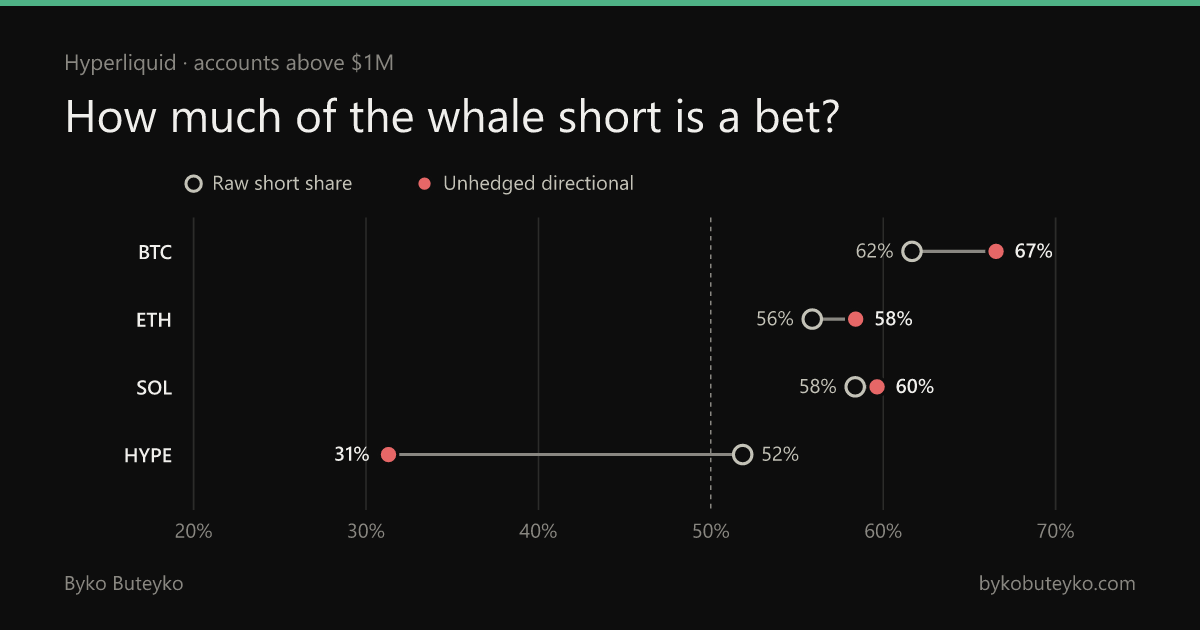
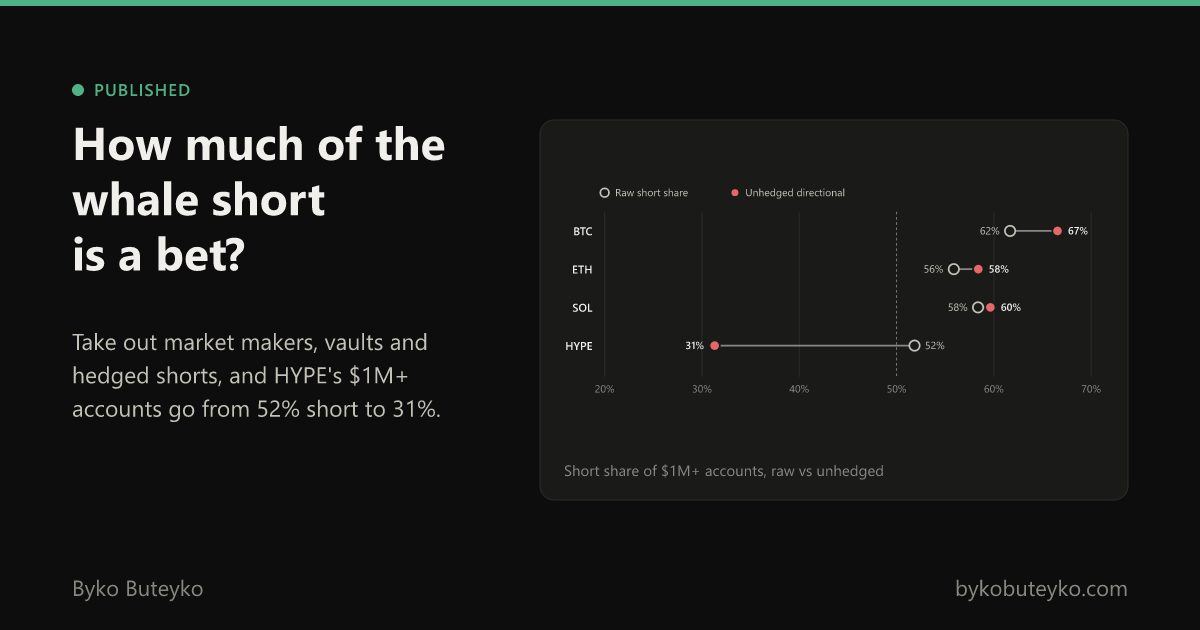
Whale preview card uses the same layout as the other notes

diff --git a/scripts/og.py b/scripts/og.py
@@ -1,5 +1,5 @@
 """Renders the link-preview cards (1200x630) for the home page and the funding, cascade and ETF notes.
-The whale note's card comes from render.py.
+render.py makes the whale note's post images.
 
   pip install resvg-py
   python scripts/og.py
@@ -27,6 +27,12 @@ text {{ font-family: {FONT}; }}
 .chart .bar.flow {{ fill: {LONG}; }}
 .chart .bar.short {{ fill: {SHORT}; }}
 .chart .shade {{ fill: {BG}; opacity: .55; }}
+.chart .legend text {{ fill: {INK2}; }}
+.chart .val.unh {{ fill: {INK}; font-weight: 600; }}
+.chart .val.raw {{ fill: {INK2}; }}
+.chart .link {{ stroke: {MUTED}; stroke-width: 2; }}
+.chart circle.raw {{ fill: {SURFACE}; stroke: {INK2}; stroke-width: 2; }}
+.chart circle.unh {{ fill: {SHORT}; stroke: {SURFACE}; stroke-width: 2; }}
 """
 
 # (status color, status, title) for each research card, as on the home page
@@ -78,6 +84,17 @@ def home():
     return frame(body).replace(text(72, H - 34, "Byko Buteyko", 22, MUTED), "")
 
 
+def whales():
+    vb, inner = chart(ROOT / "research" / "hyperliquid-whales" / "index.html", "shift")
+    body = [*status(72, 96, OK, "Published"),
+            *lines(72, 160, ["How much of the", "whale short", "is a bet?"], 46, INK, 700, gap=1.2),
+            *lines(72, 350, ["Take out market makers, vaults and", "hedged shorts, and HYPE's $1M+", "accounts go from 52% short to 31%."], 23, INK2, gap=1.45),
+            f'<rect x="540" y="120" width="588" height="380" rx="14" fill="{SURFACE}" stroke="{LINE}"/>',
+            f'<svg class="chart" x="556" y="150" width="556" height="280" viewBox="{vb}">{inner}</svg>',
+            text(564, 476, "Short share of $1M+ accounts, raw vs unhedged", 15, MUTED)]
+    return frame(body)
+
+
 def funding():
     vb, inner = chart(ROOT / "research" / "hyperliquid-funding" / "index.html", "gap")
     body = [*status(72, 96, OK, "Published"),
@@ -112,7 +129,7 @@ def etf():
     return frame(body)
 
 
-CARDS = {"og.png": home, "research/hyperliquid-funding/og.png": funding,
+CARDS = {"og.png": home, "research/hyperliquid-whales/og.png": whales, "research/hyperliquid-funding/og.png": funding,
          "research/hyperliquid-liquidations/og.png": cascades, "research/bitcoin-etf-basis/og.png": etf}
 
 if __name__ == "__main__":

diff --git a/scripts/render.py b/scripts/render.py
@@ -1,5 +1,5 @@
-"""Renders PNGs from the charts on the whales page: the link-preview card (og.png) and
-1200x675 images for posts. Builds one SVG per image and rasterises it with resvg.
+"""Renders PNGs from the charts on the whales page: 1200x675 images for posts
+(the link-preview card comes from og.py). Builds one SVG per image and rasterises it with resvg.
 
   pip install resvg-py
   python scripts/render.py [post_dir]
@@ -61,8 +61,6 @@ def card(w, h, lines, name, top, bottom=40):
 
 
 IMAGES = {
-    "og.png": (1200, 630, 1, [("Hyperliquid · accounts above $1M", 22, MUTED, 400),
-                               ("How much of the whale short is a bet?", 46, INK, 650)], "shift", 70),
     "post-shift.png": (1200, 675, 2, [("Short share of $1M+ accounts: raw vs unhedged", 38, INK, 650),
                                       ("Unhedged = without market makers, vaults, relative-value books", 22, INK2, 400),
                                       ("and shorts hedged with spot or staked coins on Hyperliquid", 22, INK2, 400)], "shift", 70),
@@ -74,7 +72,7 @@ def render(out_dir):
     out_dir.mkdir(parents=True, exist_ok=True)
     for name, (w, h, zoom, lines, ch, top) in IMAGES.items():
         png = resvg_py.svg_to_bytes(svg_string=card(w, h, lines, ch, top), zoom=zoom)
-        dest = (PAGE.parent if name == "og.png" else out_dir) / name
+        dest = out_dir / name
         dest.write_bytes(bytes(png))
         print(dest)
 
